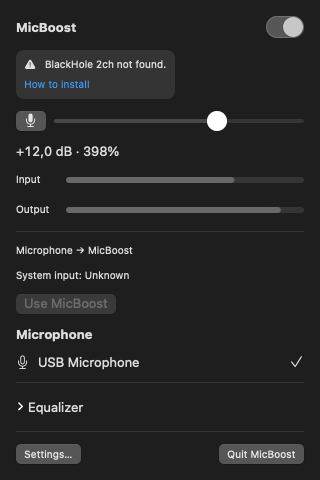
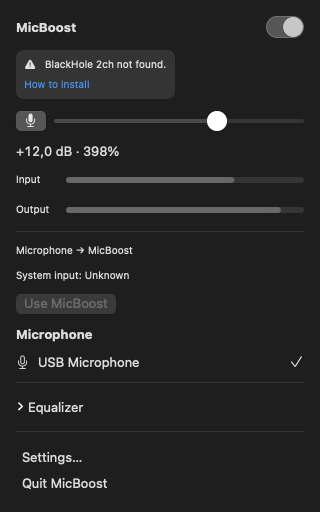
Style panel footer actions as text menu rows

diff --git a/Sources/MicBoostUI/Views.swift b/Sources/MicBoostUI/Views.swift
@@ -116,11 +116,10 @@ import SwiftUI
                 }.padding(.top, 8)
             }
             Divider()
-            HStack {
+            VStack(spacing: 0) {
                 Button(localized("Settings…"), action: model.onSettings).keyboardShortcut(",")
-                Spacer()
                 Button(localized("Quit MicBoost"), action: model.onQuit)
-            }.font(.caption)
+            }.buttonStyle(PanelMenuItemStyle())
         }.padding(16).frame(width: 320).fixedSize(horizontal: false, vertical: true)
     }
     private func meter(_ title: String, _ db: Double) -> some View {
@@ -245,5 +244,28 @@ import SwiftUI
             value == 0 ? .auto : value == -1 ? .monoMix : value == -2 ? .stereo(firstChannel: 1) : .mono(channel: value)
         model.controls.channelSelectionByUID[uid] = selection
         Task { await model.engine.setChannelSelection(selection, forUID: uid) }
+    }
+}
+
+/// Text-only rows matching the actions at the bottom of system menu bar panels.
+private struct PanelMenuItemStyle: ButtonStyle {
+    @State private var hovered = false
+
+    func makeBody(configuration: Configuration) -> some View {
+        let highlighted = hovered || configuration.isPressed
+        configuration.label
+            .font(.body)
+            .frame(maxWidth: .infinity, alignment: .leading)
+            .padding(.horizontal, 6)
+            .padding(.vertical, 5)
+            .foregroundStyle(
+                highlighted ? Color(nsColor: .selectedMenuItemTextColor) : Color.primary
+            )
+            .background(
+                highlighted ? Color(nsColor: .selectedContentBackgroundColor) : Color.clear,
+                in: RoundedRectangle(cornerRadius: 5)
+            )
+            .contentShape(Rectangle())
+            .onHover { hovered = $0 }
     }
 }

diff --git a/README.md b/README.md
@@ -119,7 +119,8 @@ never disables Gatekeeper or SIP and never removes the quarantine flag, and neit
    the system input automatically by default; disable this in Audio settings if desired.
 3. Adjust gain, mute and EQ in the panel. Close the panel whenever you like; audio keeps running.
 4. In your calling or recording app, choose **BlackHole 2ch** or **System Default**.
-5. Turn processing off to release the microphone, or choose **Quit MicBoost**. The previous
+5. Turn processing off to release the microphone, or choose **Quit MicBoost** from the text menu
+   at the bottom of the panel. The previous
    system input is restored if automatic switching is enabled and you have not changed it yourself.
 
 ### Diagnostics

diff --git a/docs/ui.md b/docs/ui.md
@@ -50,7 +50,7 @@ Conteúdo, de cima para baixo (SwiftUI, `PanelView`):
    - botões "Padrão de voz" e "Zerar EQ".
 
    Valores editáveis, validados e limitados às faixas de [dsp.md](dsp.md#equalizador). Sem gráfico de resposta.
-7. **Rodapé:** "Ajustes…" (abre a janela de ajustes) e "Sair do MicBoost".
+7. **Rodapé:** opções de menu em texto puro, uma por linha e alinhadas à esquerda, "Ajustes…" (abre a janela de ajustes) e "Sair do MicBoost". Sem moldura de botão; a linha inteira é clicável e ganha destaque semântico ao passar o ponteiro ou pressionar, como as ações nos painéis de Som do macOS.
 
 ### Mensagens de estado
 
